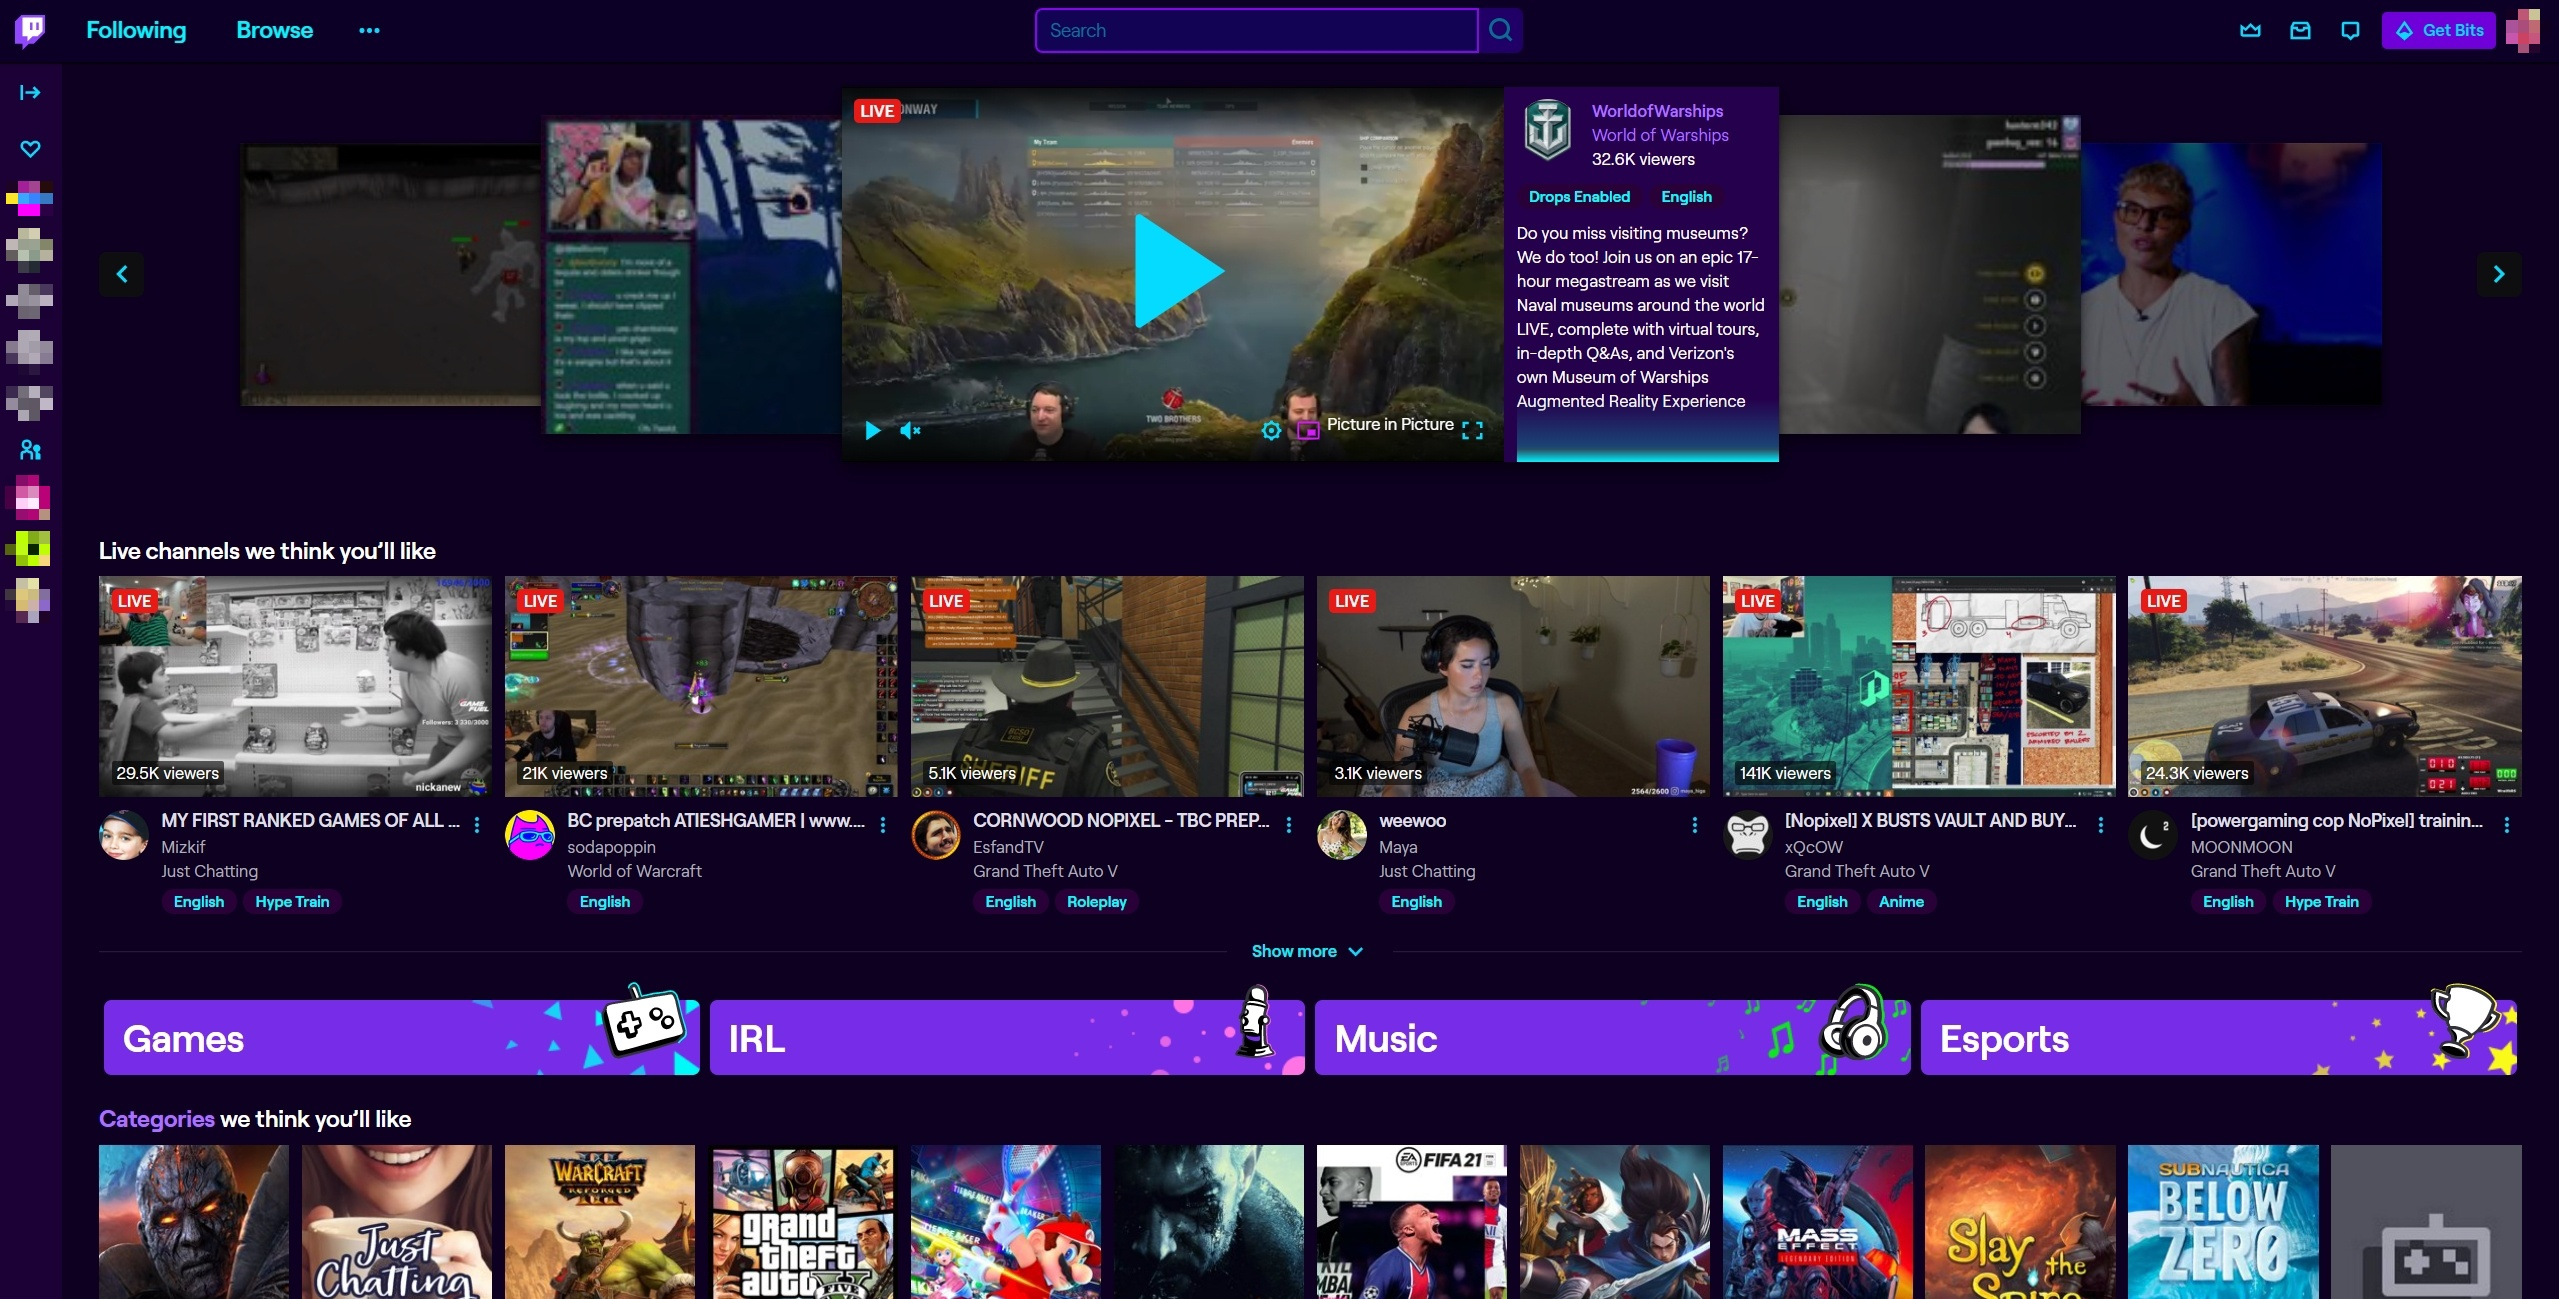
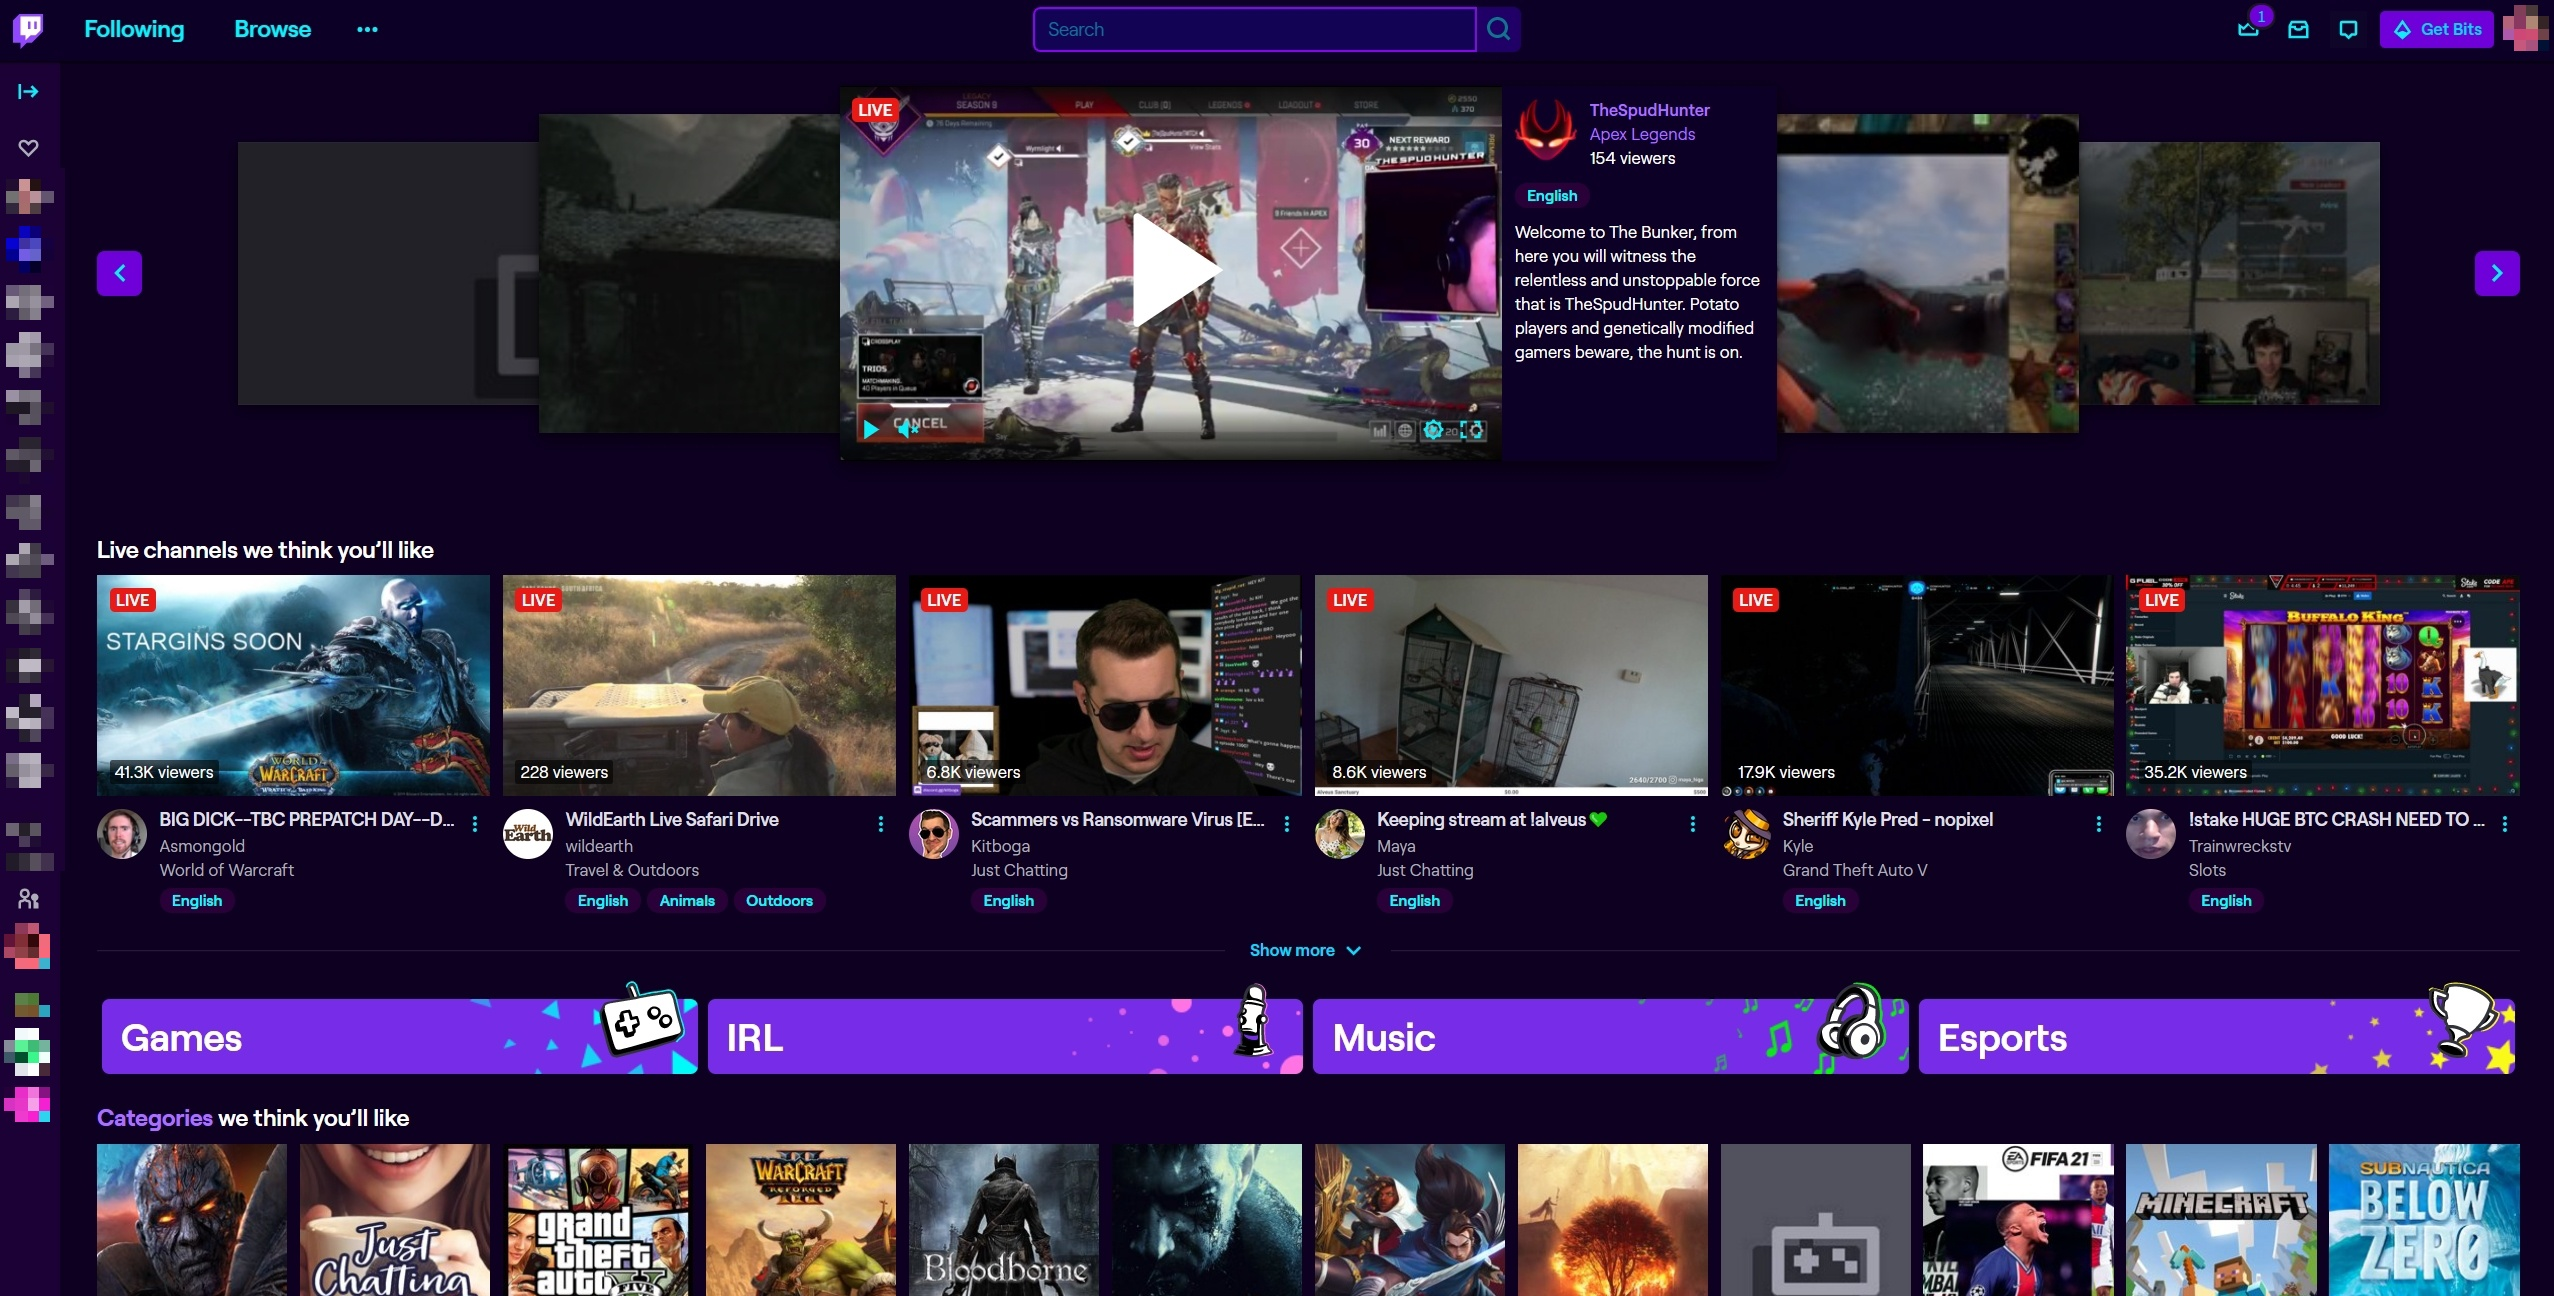
More improvements, updated preview sc

diff --git a/TwitchFutureFunk.user.css b/TwitchFutureFunk.user.css
@@ -626,4 +626,18 @@
     .CGszq {
           background-color: #1b0a47 !important;
     }
+    /*FrontPage Streamer details in carousel*/
+    .tw-root--theme-dark .carousel-metadata {
+         background: #0c0026 !important;
+    }
+
+    /*Pointless and ugly fadeout that is ontop of the frontpage streamer details in carousel*/
+    .tw-root--theme-dark .carousel-metadata--fadeout {
+         background: none !important;
+    }
+
+    /*Carousel nav buttons*/
+    .tw-root--theme-dark .carousel-player-nav-arrow__container {
+          background-color: #6f00d9 !important;
+    }
     }
